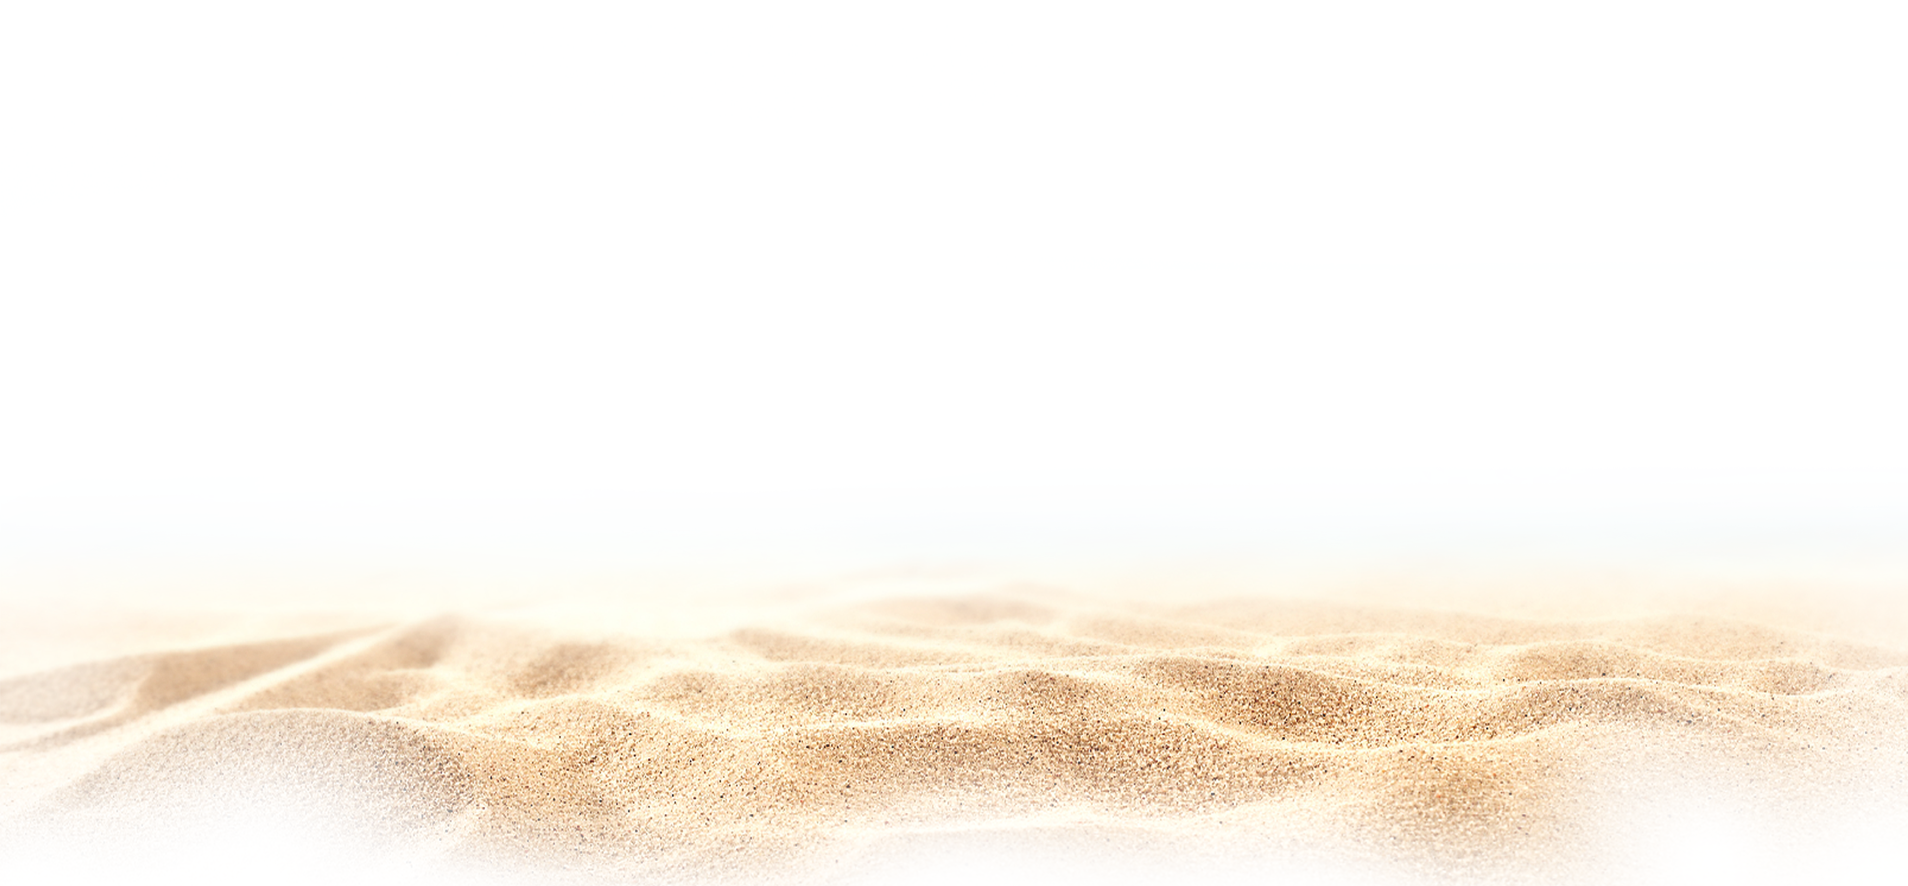
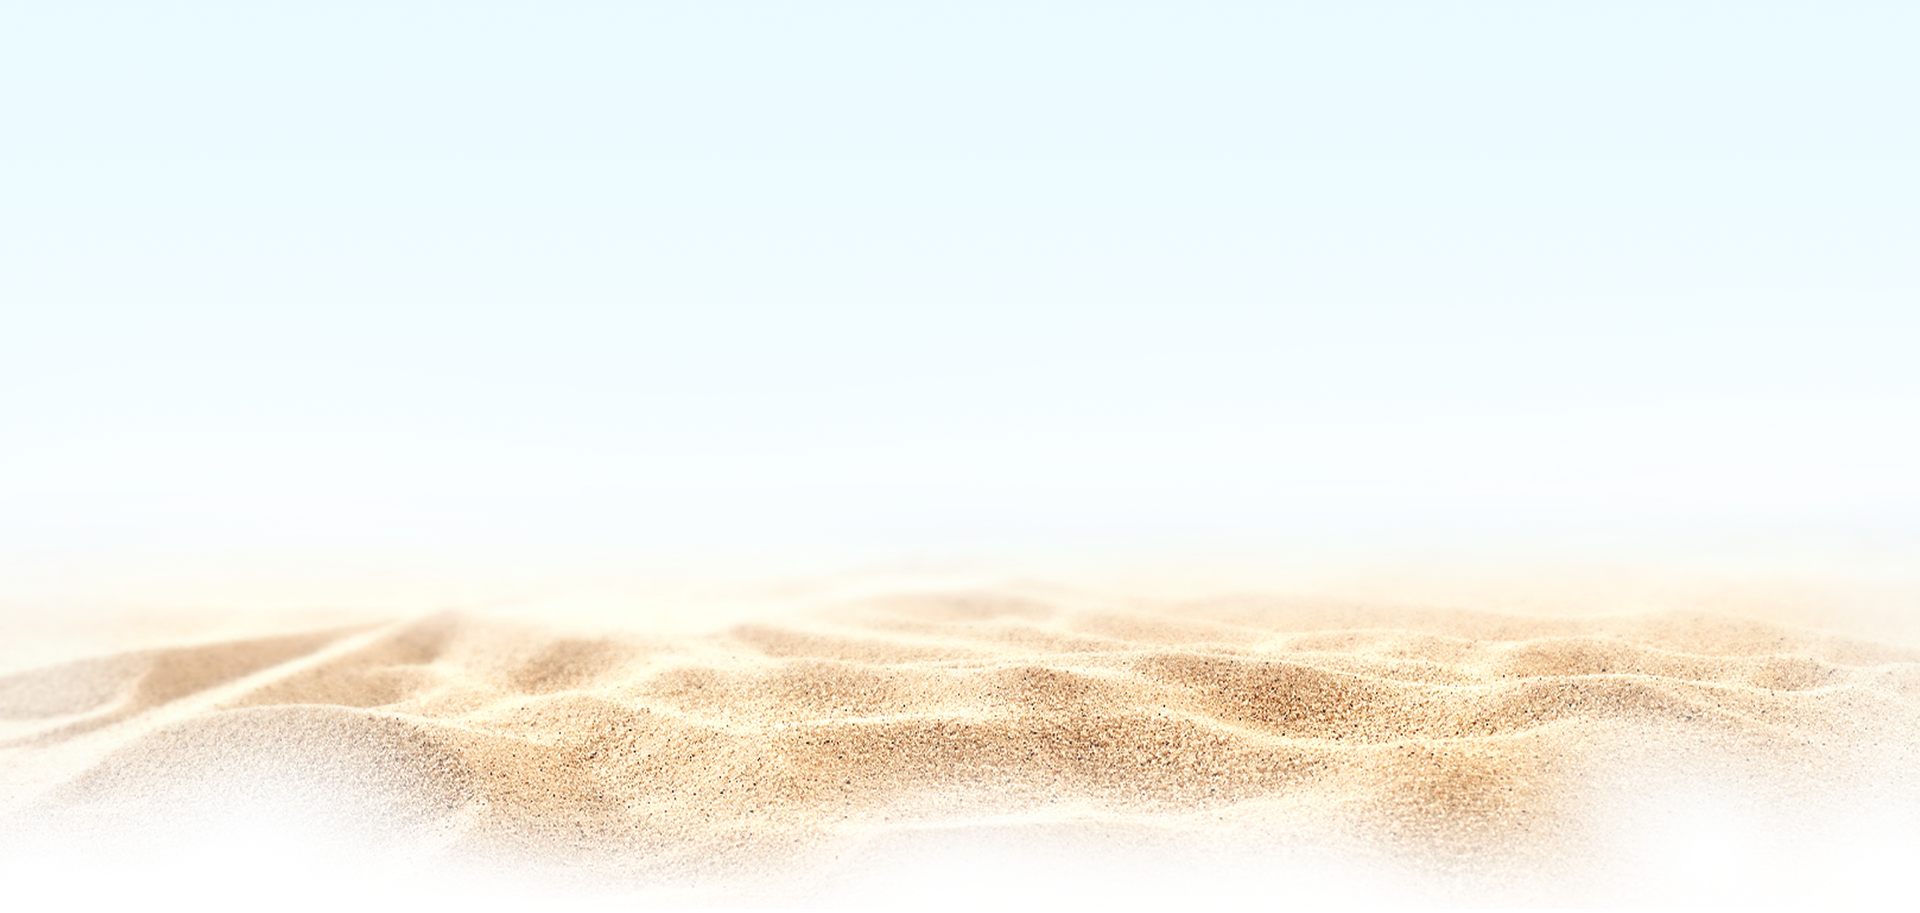
Built hero for solution pages

Changed region(s): [[0.0, 0.6704, 1.0, 1.0], [0.4329, 0.64, 0.5566, 0.6704], [0.6494, 0.64, 0.6803, 0.6704]]

diff --git a/src/components/Hero.jsx b/src/components/Hero.jsx
@@ -1,17 +1,12 @@
-import heroImg from "../assets/hero-shared-img.png";
-import crowImg from "../assets/HowItWorksPage/crow.png";
-import heropattern from "../assets/hero-pattern.png";
-
-import { motion, useInView } from "framer-motion";
-import Heading from "./Heading";
-import Button from "./Button";
+import { useInView } from "framer-motion";
 import Logo from "./Logo";
 import Navigation from "./Navigation";
 import useContentHowItWorks from "../hooks/useContentHowItWorks";
 import { useEffect, useRef, useState } from "react";
 import HeroPattern from "./HeroPattern";
+import Heading from "./Heading";
 
-function Hero() {
+function Hero({ img, heading, herobg = "hero" }) {
   const content = useContentHowItWorks();
 
   // Make nav sticky when scrolling
@@ -25,25 +20,32 @@ function Hero() {
   }, [isInView]);
 
   return (
-    <section ref={heroRef} className="hero relative lg:mb-32">
+    <section ref={heroRef} className={`${herobg} relative lg:mb-32`}>
       <header
-        className={`bg-white z-50 top-0 w-full flex justify-between px-8 py-8 items-center lg:justify-around lg:px-0 ${
+        className={`z-50 top-0 w-full flex justify-between px-8 py-8 items-center lg:justify-around lg:px-0 ${
           sticky
-            ? "fixed shadow-xl md:py-6 2xl:py-8"
+            ? "fixed bg-white shadow-lg md:py-6 2xl:py-8"
             : "absolute pt-10 2xl:pt-20"
         }`}
       >
         <Logo />
         <Navigation content={content} sticky={sticky} />
       </header>
-      <img
-        src={heroImg}
-        className="absolute left-1/2 -translate-x-[50%] bottom-1/2 translate-y-[50%] w-72 md:w-1/2 lg:w-1/3 lg:bottom-[42%]"
-      />
-      <img
-        src={crowImg}
-        className=" absolute bottom-[42%] left-1/2 -translate-x-[50%] w-1/2 md:bottom-[38%] lg:bottom-[34%] lg:w-1/3 xl:w-1/4 xl:bottom-[28%] "
-      />
+      {img && (
+        <img
+          src={img}
+          className={`absolute left-1/2 -translate-x-[50%]  w-96   ${
+            heading
+              ? "bottom-[35%] lg:bottom-[30%] xl:w-1/4"
+              : "bottom-[20%] md:w-1/2 lg:w-1/3 lg:bottom-[18%] xl:bottom-[15%]"
+          } `}
+        />
+      )}
+      {heading && (
+        <div className="absolute left-1/2 -translate-x-[50%] bottom-[20%] lg:bottom-[10%]">
+          <Heading>{heading}</Heading>
+        </div>
+      )}
 
       <HeroPattern />
     </section>

diff --git a/src/pages/Security.jsx b/src/pages/Security.jsx
@@ -1,20 +1,24 @@
 import Footer from "../components/Footer";
 import Hero from "../components/Hero";
-
-import footerImg from "../assets/footer-img.png";
 import Heading from "../components/Heading";
-import useContentIndustries from "../hooks/useContentIndustries";
+import useContentSecurity from "../hooks/useContentSecurity";
 import SwipingSlider from "../components/SwipingSlider";
 import PageTransition from "../components/PageTransition";
 
 import { motion } from "framer-motion";
 
-function Industries() {
-  const content = useContentIndustries();
+import footerImg from "../assets/footer-img.png";
+
+function Security() {
+  const content = useContentSecurity();
 
   return (
     <PageTransition>
-      <Hero />
+      <Hero
+        img={content.heroImg}
+        heading={content.heroHeading}
+        herobg="hero-solutions"
+      />
 
       <motion.section
         initial={{ opacity: 0, translateY: 150 }}
@@ -22,7 +26,11 @@ function Industries() {
         transition={{ duration: 0.5 }}
         className="container mx-auto mb-12 px-10 lg:px-0 lg:mb-32"
       >
-        <Heading type="h3">{content.firstSection.heading}</Heading>
+        <div className=" text-center text-lg md:text-xl lg:text-2xl flex flex-col gap-4 mb-12 lg:mb-32">
+          {content.subHero.map((text) => (
+            <p key={text}>{text}</p>
+          ))}
+        </div>
 
         <div className="flex items-start justify-center flex-col gap-12 md:flex-row md:flex-wrap lg:gap-10 xl:px-4">
           {content.firstSection.content.map((el) => (
@@ -67,4 +75,4 @@ function Industries() {
   );
 }
 
-export default Industries;
+export default Security;

diff --git a/src/constants/security.js b/src/constants/security.js
@@ -1,15 +1,19 @@
-import img1 from "../assets/IndustriesPage/img-1.jpg";
-import img2 from "../assets/IndustriesPage/img-2.jpg";
-import img3 from "../assets/IndustriesPage/img-3.jpg";
+import img1 from "../assets/Solutions/securityPage/img-1.jpg";
+import img2 from "../assets/Solutions/securityPage/img-2.jpg";
+import img3 from "../assets/Solutions/securityPage/img-3.jpg";
 
-import img4 from "../assets/IndustriesPage/img-4.jpg";
+import img4 from "../assets/Solutions/securityPage/img-4.jpg";
 
 // Slides
-import slide1 from "../assets/IndustriesPage/industriesSlider/industry1.png";
+import slide1 from "../assets/Solutions/industriesSlider/industry1.png";
+
+import securityImg from "../assets/Solutions/securityPage/SecurityHero.png";
 
 export const en = {
+  heroImg: securityImg,
+  heroHeading: "Security",
+  subHero: ["Allways On", "Billion Hours Trained", "Security Guard"],
   firstSection: {
-    heading: "Lorem Ipsum",
     content: [
       {
         img: img1,
@@ -56,8 +60,10 @@ export const en = {
 ///////////////////////////////////s
 
 export const tr = {
+  heroImg: securityImg,
+  heroHeading: "Güvenlik",
+  subHero: ["Her zaman", "Milyar Saat Eğitim", "Güvenlik görevlisi"],
   firstSection: {
-    heading: "Lorem Ipsum",
     content: [
       {
         img: img1,

diff --git a/src/constants/HowItWorks.js b/src/constants/HowItWorks.js
@@ -22,11 +22,14 @@ import company7 from "../assets/HowItWorksPage/companies/image7.png";
 import company8 from "../assets/HowItWorksPage/companies/image8.png";
 import company9 from "../assets/HowItWorksPage/companies/image9.png";
 
+import crowImg from "../assets/hero-crow-img.png";
+
 export const en = {
+  heroImg: crowImg,
   navigation: {
     links: [
       { text: "How it works", path: "/howItWorks" },
-      { text: "Industries", path: "/industries" },
+      { text: "Industries", path: "" },
       { text: "Solutions", path: "/solutions" },
       { text: "Success Stories", path: "" },
       { text: "About Us", path: "" },
@@ -137,10 +140,11 @@ export const en = {
 ///////////////////////////////////////////
 
 export const tr = {
+  heroImg: crowImg,
   navigation: {
     links: [
       { text: "Nasıl çalışır", path: "/howItWorks" },
-      { text: "Endüstriler", path: "/industries" },
+      { text: "Endüstriler", path: "" },
       { text: "Çözümler", path: "/solutions" },
       { text: "Çözümler", path: "" },
       { text: "Hakkımızda", path: "" },

diff --git a/src/App.jsx b/src/App.jsx
@@ -3,9 +3,9 @@ import Home from "./pages/Home";
 import PageNotFound from "./pages/PageNotFound";
 import LanguageContext from "./contexts/LanguageContext";
 import HowItWorks from "./pages/HowItWorks";
-import Industries from "./pages/Industries";
 import { AnimatePresence } from "framer-motion";
 import Solutions from "./pages/Solutions";
+import Security from "./pages/security";
 
 function App() {
   const location = useLocation();
@@ -16,8 +16,8 @@ function App() {
         <Routes location={location} key={location.pathname}>
           <Route index path="/" element={<Home />} />
           <Route path="/howItWorks" element={<HowItWorks />} />
-          <Route path="/industries" element={<Industries />} />
           <Route path="/solutions" element={<Solutions />} />
+          <Route path="/security" element={<Security />} />
           <Route path="*" element={<PageNotFound />} />
         </Routes>
       </AnimatePresence>

diff --git a/src/index.css b/src/index.css
@@ -102,15 +102,6 @@ body::-webkit-scrollbar-thumb {
   border: 2px solid #ffb800; /* Set bullet border color */
 }
 
-/* HOW IT WORKS */
-.hero {
-  height: 100vh;
-  background-image: url("./assets/hero-bg.png");
-  background-repeat: no-repeat;
-  background-position: center;
-  background-size: contain;
-}
-
 .industrySwiper {
   margin-left: 8%;
 }
@@ -138,4 +129,21 @@ body::-webkit-scrollbar-thumb {
 
 .industrySwiper .swiper-pagination-bullet {
   border: 2px solid #ffb800; /* Set bullet border color */
+}
+
+/* HOW IT WORKS */
+.hero {
+  height: 100vh;
+  background-image: url("./assets/hero-bg.png");
+  background-repeat: no-repeat;
+  background-position: center;
+  background-size: cover;
+}
+
+.hero-solutions {
+  height: 100vh;
+  background-image: url("./assets/Solutions/solutions-hero-bg.png");
+  background-repeat: no-repeat;
+  background-position: center;
+  background-size: cover;
 }

diff --git a/src/pages/HowItWorks.jsx b/src/pages/HowItWorks.jsx
@@ -3,18 +3,18 @@ import Footer from "../components/Footer";
 import Heading from "../components/Heading";
 import Hero from "../components/Hero";
 import HowDoesItWork from "../components/HowDoesItWork";
+import TrustedBySection from "../components/TrustedBySection";
+import PageTransition from "../components/PageTransition";
+
 import useContentHowItWorks from "../hooks/useContentHowItWorks";
 
 import footerImg from "../assets/footer-img.png";
-import TrustedBySection from "../components/TrustedBySection";
-
-import PageTransition from "../components/PageTransition";
 
 function HowItWorks() {
   const content = useContentHowItWorks();
   return (
     <PageTransition>
-      <Hero />
+      <Hero img={content.heroImg} />
       <div className=" text-center text-lg md:text-xl lg:text-2xl flex flex-col gap-4 mb-12 lg:mb-32">
         {content.subHero.map((text) => (
           <p key={text}>{text}</p>

diff --git a/src/constants/index.js b/src/constants/index.js
@@ -53,7 +53,7 @@ export const en = {
   navigation: {
     links: [
       { text: "How it works", path: "/howItWorks" },
-      { text: "Industries", path: "/industries" },
+      { text: "Industries", path: "" },
       { text: "Solutions", path: "/solutions" },
       { text: "Success Stories", path: "" },
       { text: "About Us", path: "" },
@@ -306,7 +306,7 @@ export const tr = {
   navigation: {
     links: [
       { text: "Nasıl çalışır", path: "/howItWorks" },
-      { text: "Endüstriler", path: "/industries" },
+      { text: "Endüstriler", path: "" },
       { text: "Solutions", path: "/solutions" },
       { text: "Çözümler", path: "" },
       { text: "Hakkımızda", path: "" },

diff --git a/src/components/SwipingSlider.jsx b/src/components/SwipingSlider.jsx
@@ -31,7 +31,7 @@ function SwipingSlider({ content }) {
         className="industrySwiper pb-16 pt-4"
       >
         {content.slides.map((slide) => (
-          <SwiperSlide key={slide.title} className="!w-64 md:!w-72 2xl:!w-72">
+          <SwiperSlide key={slide.img} className="!w-64 md:!w-72 2xl:!w-72">
             <div className="w-56 shadow-[5px_-10px_10px_rgb(0,0,0,0.1)] rounded-t-3xl 2xl:w-60">
               <p className=" text-center font-semibold py-4 text-lg md:py-8 2xl:py-8 ">
                 {slide.title}

diff --git a/src/hooks/useContentSecurity.js b/src/hooks/useContentSecurity.js
@@ -1,11 +1,11 @@
 import { useLanguage } from "../contexts/LanguageContext";
-import { en } from "../constants/industries";
-import { tr } from "../constants/industries";
+import { en } from "../constants/security";
+import { tr } from "../constants/security";
 
-function useContentIndustries() {
+function useContentSecurity() {
   const { activeLanguage } = useLanguage();
   const content = activeLanguage === "tr" ? tr : en;
   return content;
 }
 
-export default useContentIndustries;
+export default useContentSecurity;
